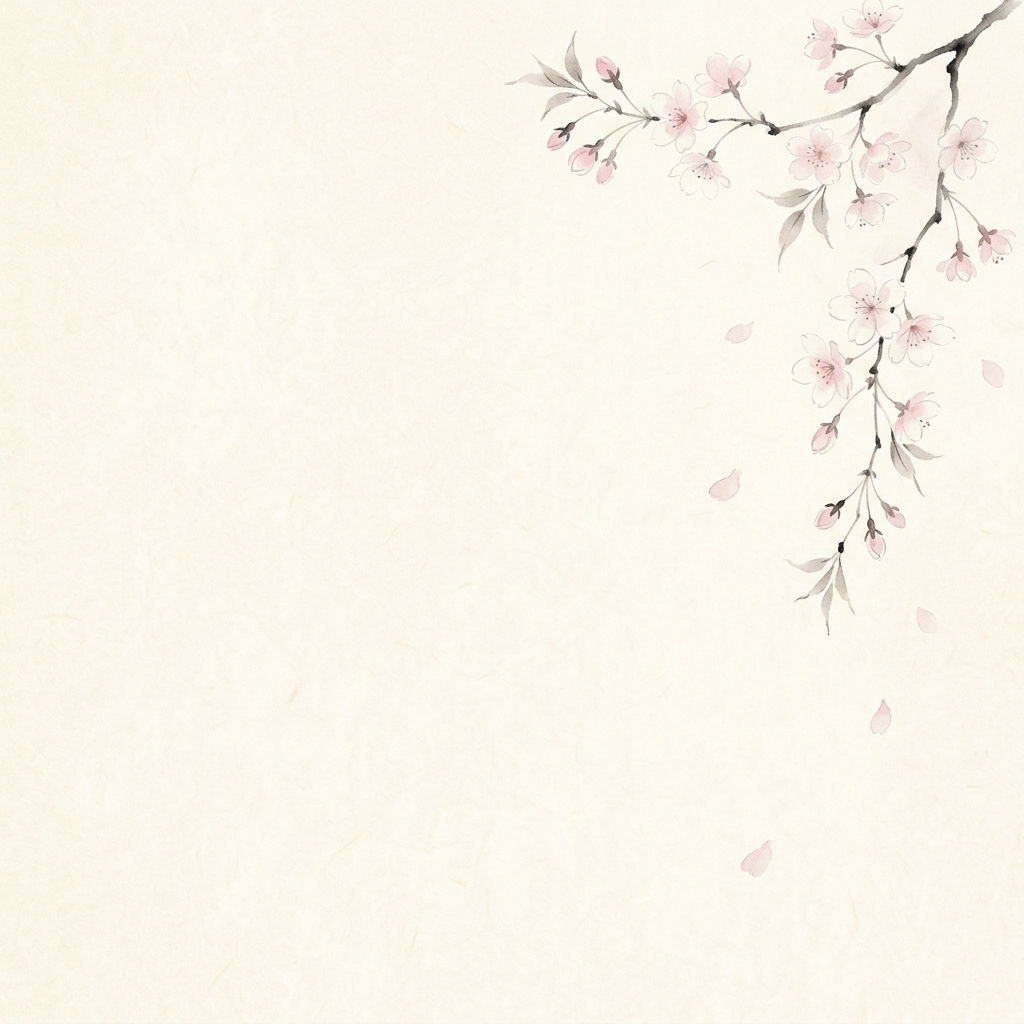
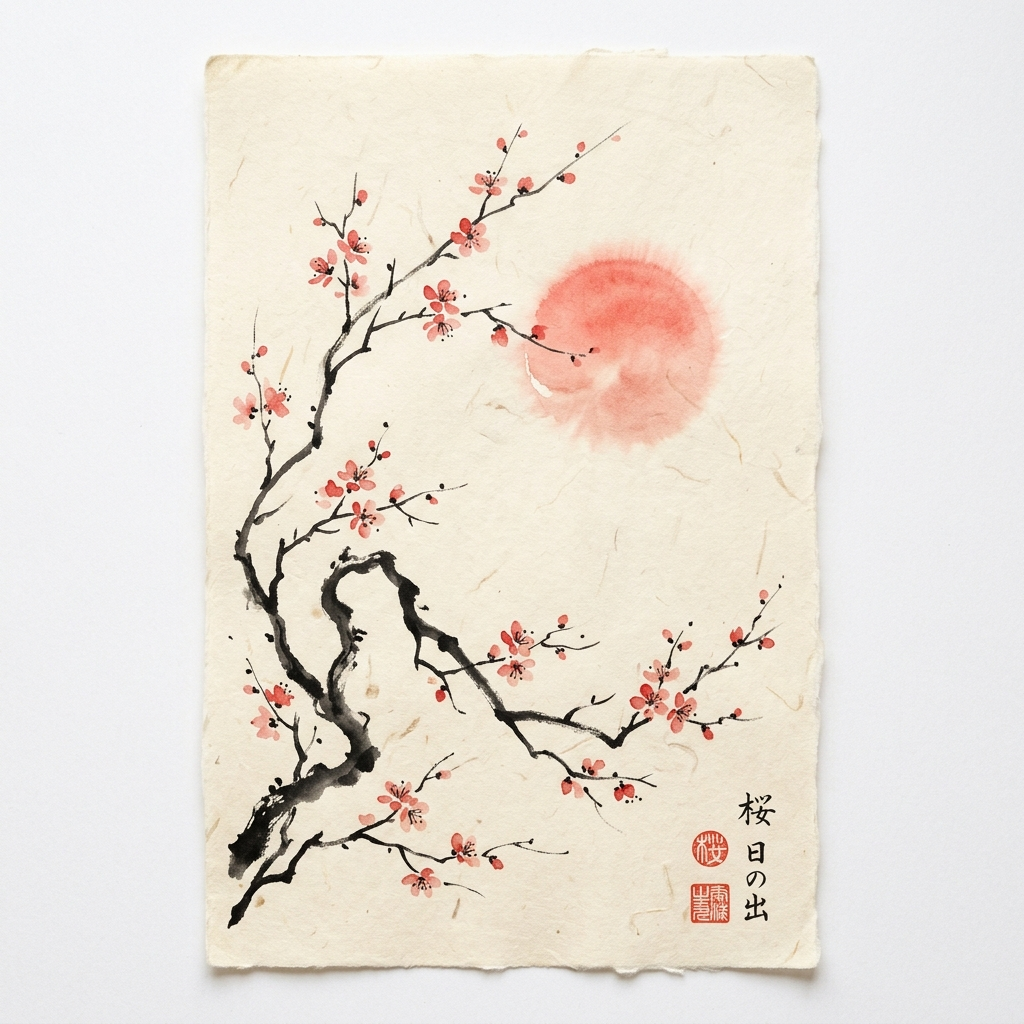
style: transform app theme to traditional Japanese Crimson Red with custom premium Sumi-e rising sun background

diff --git a/lib/core/theme/app_theme.dart b/lib/core/theme/app_theme.dart
@@ -18,22 +18,22 @@ class AppTheme {
   AppTheme._();
 
   // ── Traditional Japanese Palette (Nippon Colors) ────────────────
-  static const _shuRed = Color(0xFFFF3B7B); // Painted Sakura Pink (from user painting)
+  static const _shuRed = Color(0xFFD63031); // Traditional Japanese Crimson Red
   static const _sumizome = Color(0xFF1C1C1C); // Ink Black (Sumizome)
-  static const _torinoko = Color(0xFFFCF3F3); // Soft Sakura Parchment (pink tint)
-  static const _kumen = Color(0xFFFFF7F7); // Pure Sakura Paper (pinkish white)
+  static const _torinoko = Color(0xFFF9F6F0); // Warm Washi Parchment Ivory (from user painting background)
+  static const _kumen = Color(0xFFFFFDF9); // Soft Clean Paper White
   static const _takeGreen = Color(0xFF316745); // Bamboo Green (Take-gaki)
   static const _yamabuki = Color(0xFFFFB11B); // Golden Yellow (Yamabuki)
-  static const _beni = Color(0xFFD81B60); // Painted Blossom Crimson (deep magenta pink)
+  static const _beni = Color(0xFFB71C1C); // Deep Traditional Blossom Crimson / Dark Scarlet
   static const _charcoal = Color(0xFF5D5D5D); // Charcoal Gray
-  static const _paperBorder = Color(0xFFE8E0D4); // Soft Paper Edge
-
+  static const _paperBorder = Color(0xFFE2D7C7); // Soft Warm Washi Paper Edge
+ 
   // Private legacy aliases
   static const _crimson = _shuRed;
   static const _paperWhite = _kumen;
   static const _inkBlack = _sumizome;
   static const _inkGrey = _charcoal;
-
+ 
   // ── Dark palette (Night Ink Aesthetic) ──────────────────────────
   static const _darkInk = Color(0xFF141517); // Midnight Ink (Background)
   static const _darkSurface = Color(0xFF1F2023); // Soot Gray (Surface/Cards)
@@ -41,7 +41,7 @@ class AppTheme {
   static const _charcoalFaded = Color(0xFF8A8A8A); // Faded Ink (Secondary Text)
   static const _darkBorder = Color(0xFF2C2D33); // Deep Paper Edge
   static const _darkInput = Color(0xFF1A1B1E); // Input Fill (Dark)
-  static const _hankoRedDark = Color(0xFFD81B60); // Painted Blossom Crimson in Dark
+  static const _hankoRedDark = Color(0xFFB71C1C); // Deep Blossom Crimson in Dark
 
   // ── Light Color Scheme ──────────────────────────────────────
   static const ColorScheme _scheme = ColorScheme(
@@ -467,8 +467,8 @@ class AppColors {
           : const Color(0xFF2C2D33); // Dark Border
 
   // ── Static Palette ───────────────────────────────────────────────
-  static const torinoko = Color(0xFFFCF3F3); // Soft Sakura Parchment (pink tint)
-  static const kumen = Color(0xFFFFF7F7); // Pure Sakura Paper (pinkish white)
+  static const torinoko = Color(0xFFF9F6F0); // Warm Washi Parchment Ivory (from user painting background)
+  static const kumen = Color(0xFFFFFDF9); // Soft Clean Paper White
   static const darkBackground = Color(0xFF141517); // dark background
   static const darkSurface = Color(0xFF1F2023); // Soot Black (Surface/Cards)
   static const boneWhite = Color(0xFFE5E2D9);
@@ -487,14 +487,14 @@ class AppColors {
 
   static const sumizome = Color(0xFF1C1C1C); // primary text (light)
   static const charcoal = Color(0xFF5D5D5D); // secondary text (light)
-  static const paperBorder = Color(0xFFE8E0D4); // borders / dividers (light)
+  static const paperBorder = Color(0xFFE2D7C7); // borders / dividers (light)
 
   // ── Torrent state colours (Static across themes) ──────────────────
-  static const downloading = Color(0xFFFF3B7B); // Painted Sakura Pink
-  static const downloadingDark = Color(0xFFD81B60); // Painted Blossom Crimson
+  static const downloading = Color(0xFFD63031); // Traditional Japanese Crimson Red
+  static const downloadingDark = Color(0xFFB71C1C); // Deep Traditional Blossom Crimson / Dark Scarlet
   static const seeding = Color(0xFF316745); // Take Green
   static const paused = Color(0xFFD35400); // Autumn Orange
-  static const error = Color(0xFFD81B60); // Painted Blossom Crimson
+  static const error = Color(0xFFB71C1C); // Deep Traditional Blossom Crimson
   static const finished = Color(0xFF145A32); // Deep Take Green
   static const unknown = Color(0xFF8A8A8A); // Faded Ink
   static const metadata = Color(0xFF5D5D5D); // Charcoal
@@ -507,9 +507,9 @@ class AppColors {
 class AppGradients {
   AppGradients._();
 
-  /// Primary Sakura pink gradient (FAB, CTAs).
+  /// Primary Crimson Red gradient (FAB, CTAs).
   static const primary = LinearGradient(
-    colors: [Color(0xFFFF3B7B), Color(0xFFD81B60)],
+    colors: [Color(0xFFD63031), Color(0xFFB71C1C)],
     begin: Alignment.topLeft,
     end: Alignment.bottomRight,
   );
@@ -523,7 +523,7 @@ class AppGradients {
 
   /// Error gradient.
   static const error = LinearGradient(
-    colors: [Color(0xFFD81B60), Color(0xFF800020)], // Blossom Crimson to Deep Burgundy/Wine
+    colors: [Color(0xFFB71C1C), Color(0xFF800020)], // Deep Crimson to Burgundy
     begin: Alignment.topLeft,
     end: Alignment.bottomRight,
   );
@@ -537,14 +537,14 @@ class AppGradients {
 
   /// Subtle paper card tint.
   static const cardSurface = LinearGradient(
-    colors: [Color(0x08FF3B7B), Color(0x041C1C1C)],
+    colors: [Color(0x08D63031), Color(0x041C1C1C)],
     begin: Alignment.topLeft,
     end: Alignment.bottomRight,
   );
 
   /// Active selection / border gradient.
   static const activeBorder = LinearGradient(
-    colors: [Color(0x40FF3B7B), Color(0x20D81B60)],
+    colors: [Color(0x40D63031), Color(0x20B71C1C)],
     begin: Alignment.topLeft,
     end: Alignment.bottomRight,
   );